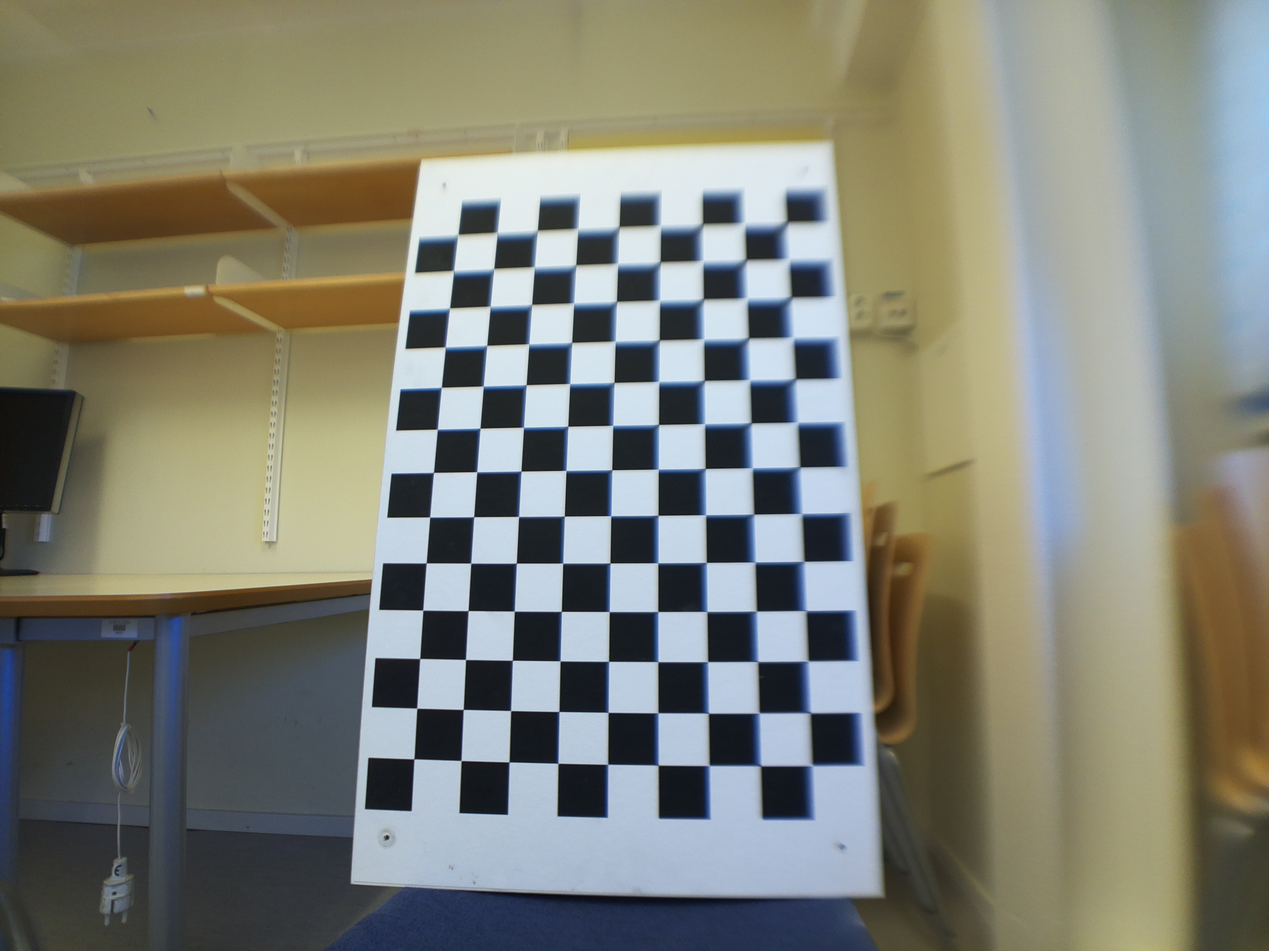
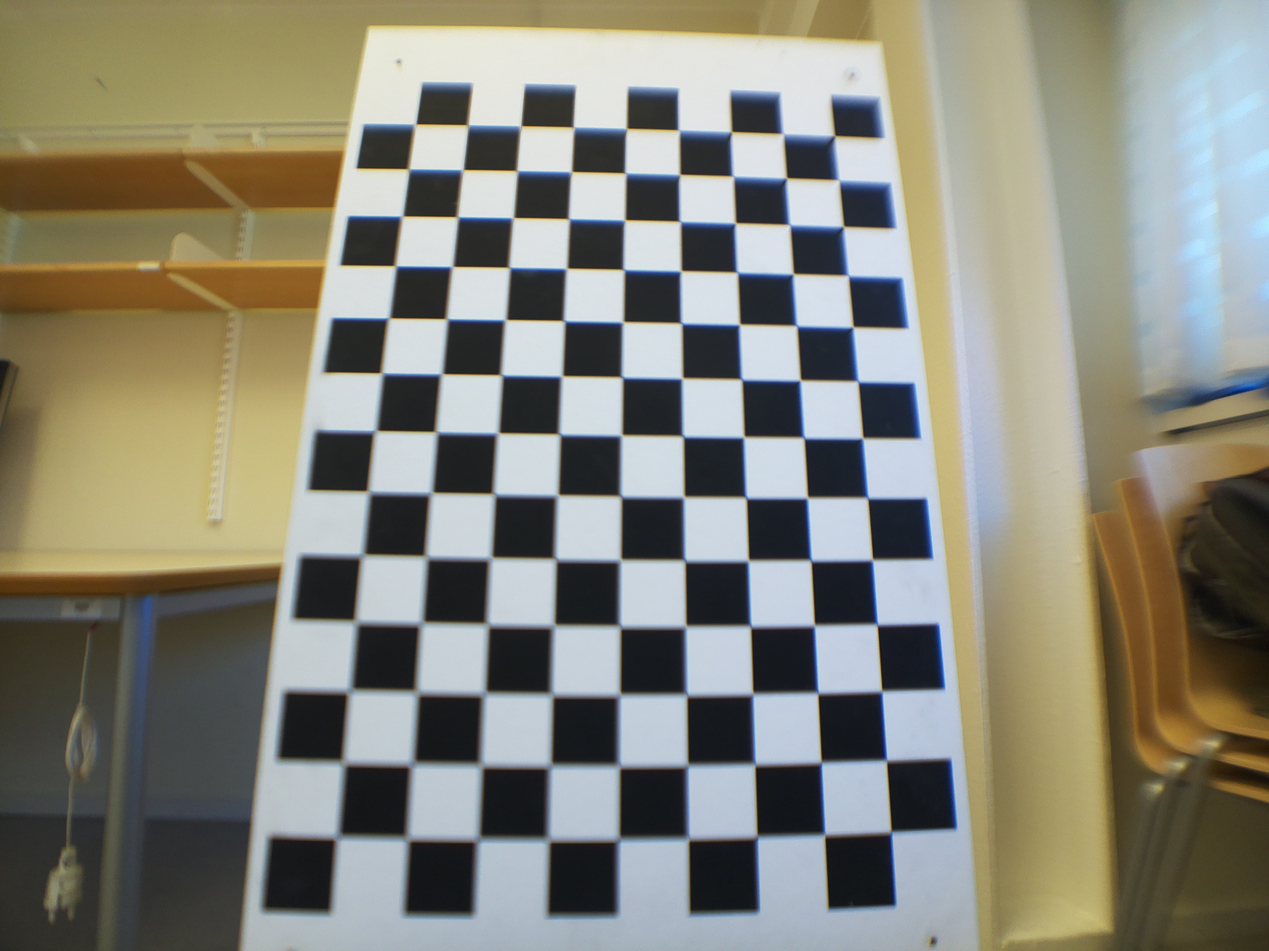
improved calibration with wide lens

diff --git a/code/calibration_tests.py b/code/calibration_tests.py
@@ -9,7 +9,7 @@ objp = np.zeros((13*9,3), np.float32)
 sq_size = 40
 objp[:,:2] = np.mgrid[0:13,0:9].T.reshape(-1,2) * sq_size
 
-results = np.load("calib_results.npy", allow_pickle=True)
+results = np.load("calib_results_wide.npy", allow_pickle=True)
 ret = results.item()["ret"]
 mtx = results.item()["camera matrix"]
 dist = results.item()["distortion coeff"]
@@ -19,7 +19,7 @@ objpoints = results.item()["obj points"]
 imgpoints = results.item()["img points"]
 valid_imgs = results.item()["valid imgs"]
 
-img = cv.imread('/home/pi2/Documents/exjobb/tqet33-exjobb/code/test2.jpg')
+img = cv.imread('/home/pi2/Documents/exjobb/tqet33-exjobb/code/testWide.jpg')
 h,  w = img.shape[:2]
 newcameramtx, roi = cv.getOptimalNewCameraMatrix(mtx, dist, (w,h), 0, (w,h))
 
@@ -29,7 +29,7 @@ dst = cv.undistort(img, mtx, dist, None, newcameramtx)
 # crop the image
 x, y, w, h = roi
 dst = dst[y:y+h, x:x+w]
-cv.imwrite('testAfter2.jpg', dst)
+cv.imwrite('testWideAfter.jpg', dst)
 
 
 #------------ calculate re-projection (training) error ------------#

diff --git a/code/calibrate.py b/code/calibrate.py
@@ -26,7 +26,7 @@ path = os.path.abspath(os.getcwd())
 images = glob.glob(path+'/imagesForCalibWide/*.jpg')
 random.shuffle(images)
 
-split_idx = int(len(images)*0.6)
+split_idx = int(len(images)*0.8)
 train_imgs = images[:split_idx] #training set
 valid_imgs = images[split_idx:] #validation set
 #print(images)
@@ -79,6 +79,7 @@ np.save("calib_results_wide.npy", results)
 #dist = calib_results.item()["distortion coeff"]
 #rvecs = calib_results.item()["rotation vector"]
 #tvecs = calib_results.item()["translation vector"]
+
 
 img = cv.imread('/home/pi2/Documents/exjobb/tqet33-exjobb/code/testWide.jpg')
 h,  w = img.shape[:2]
